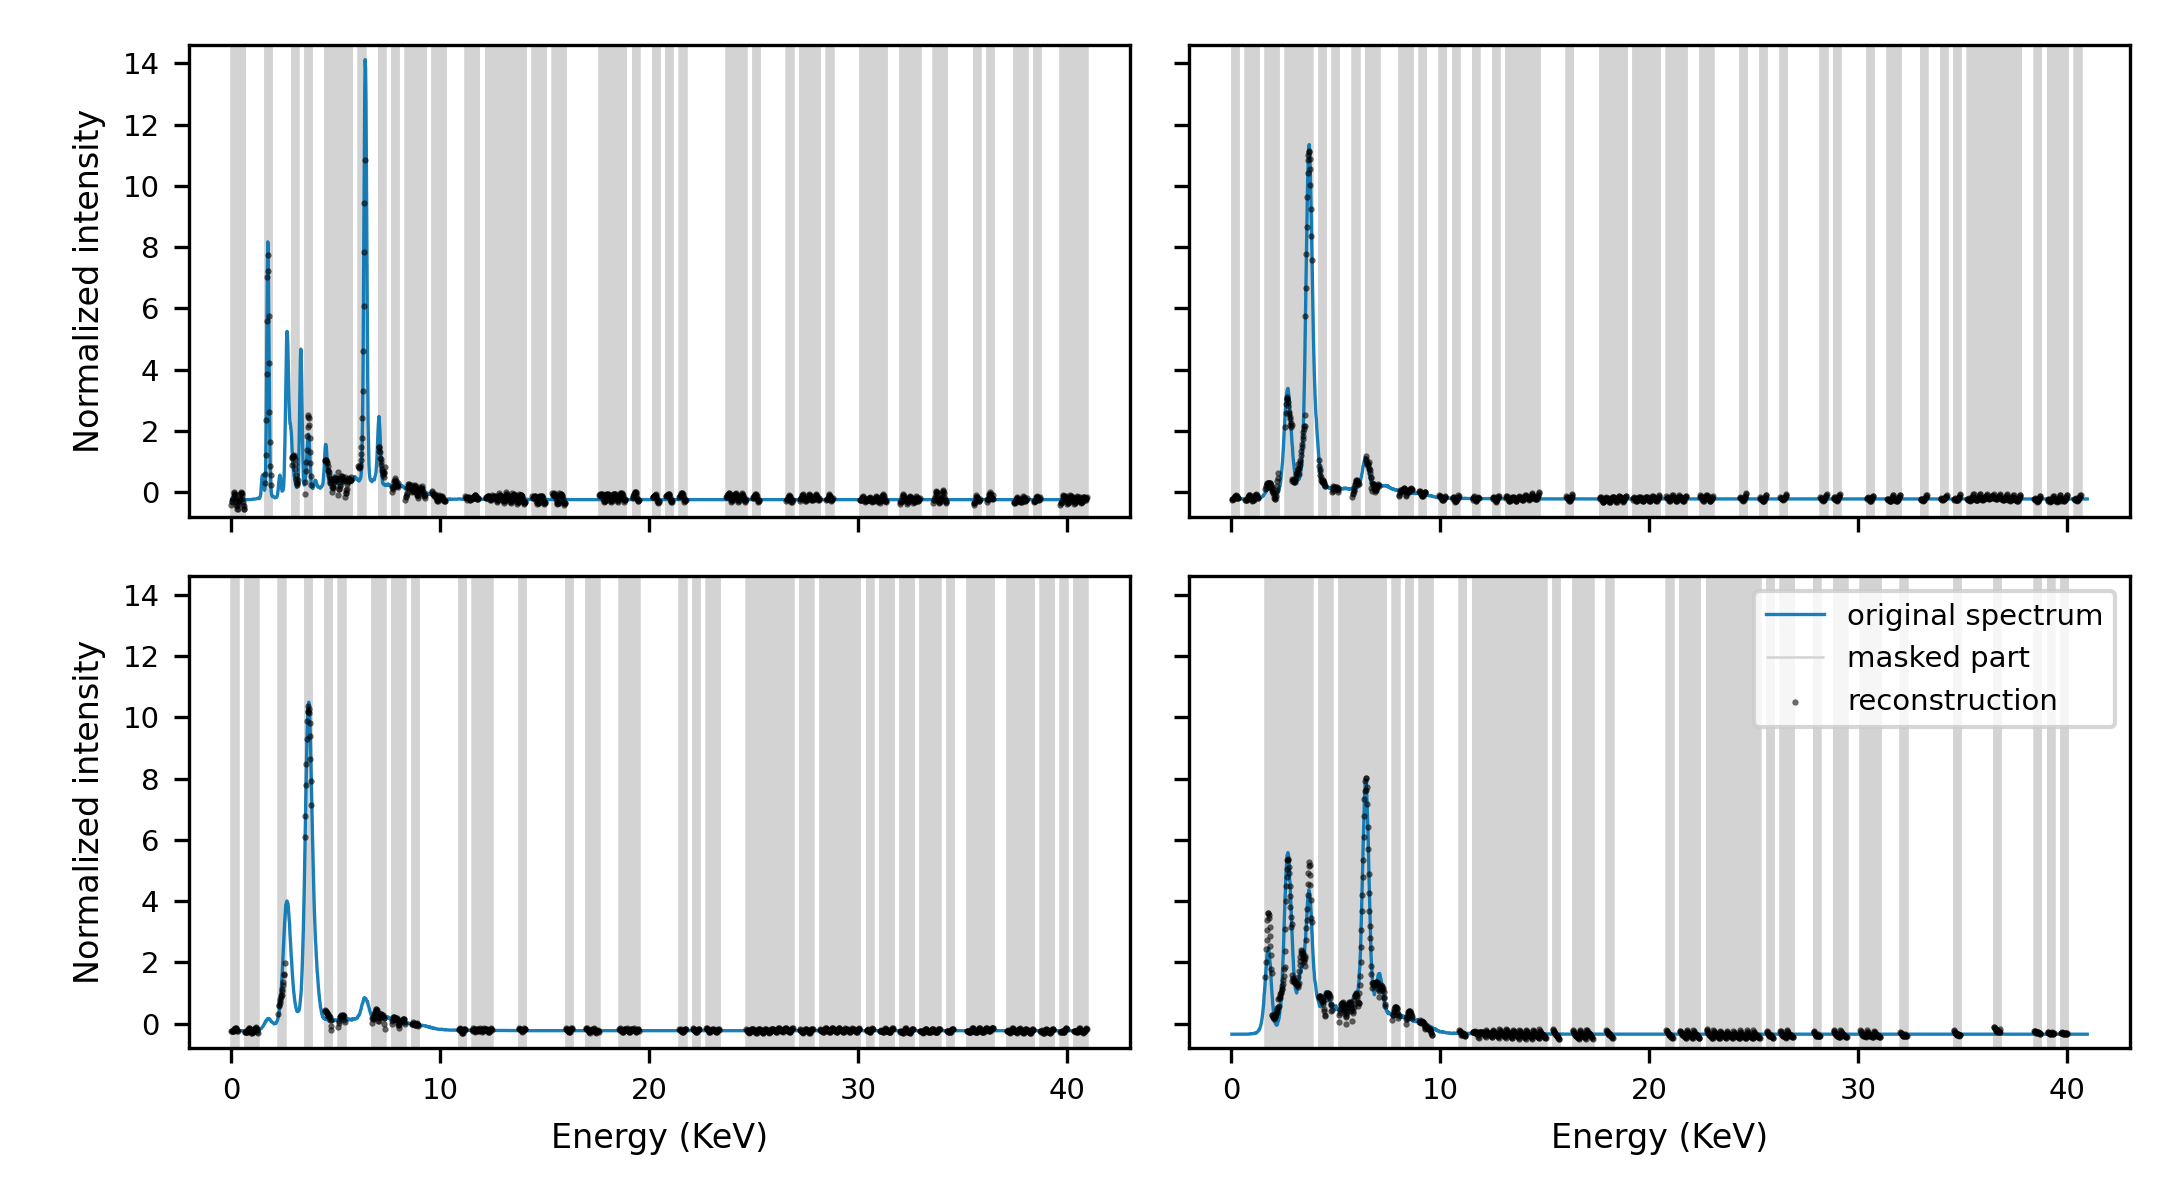
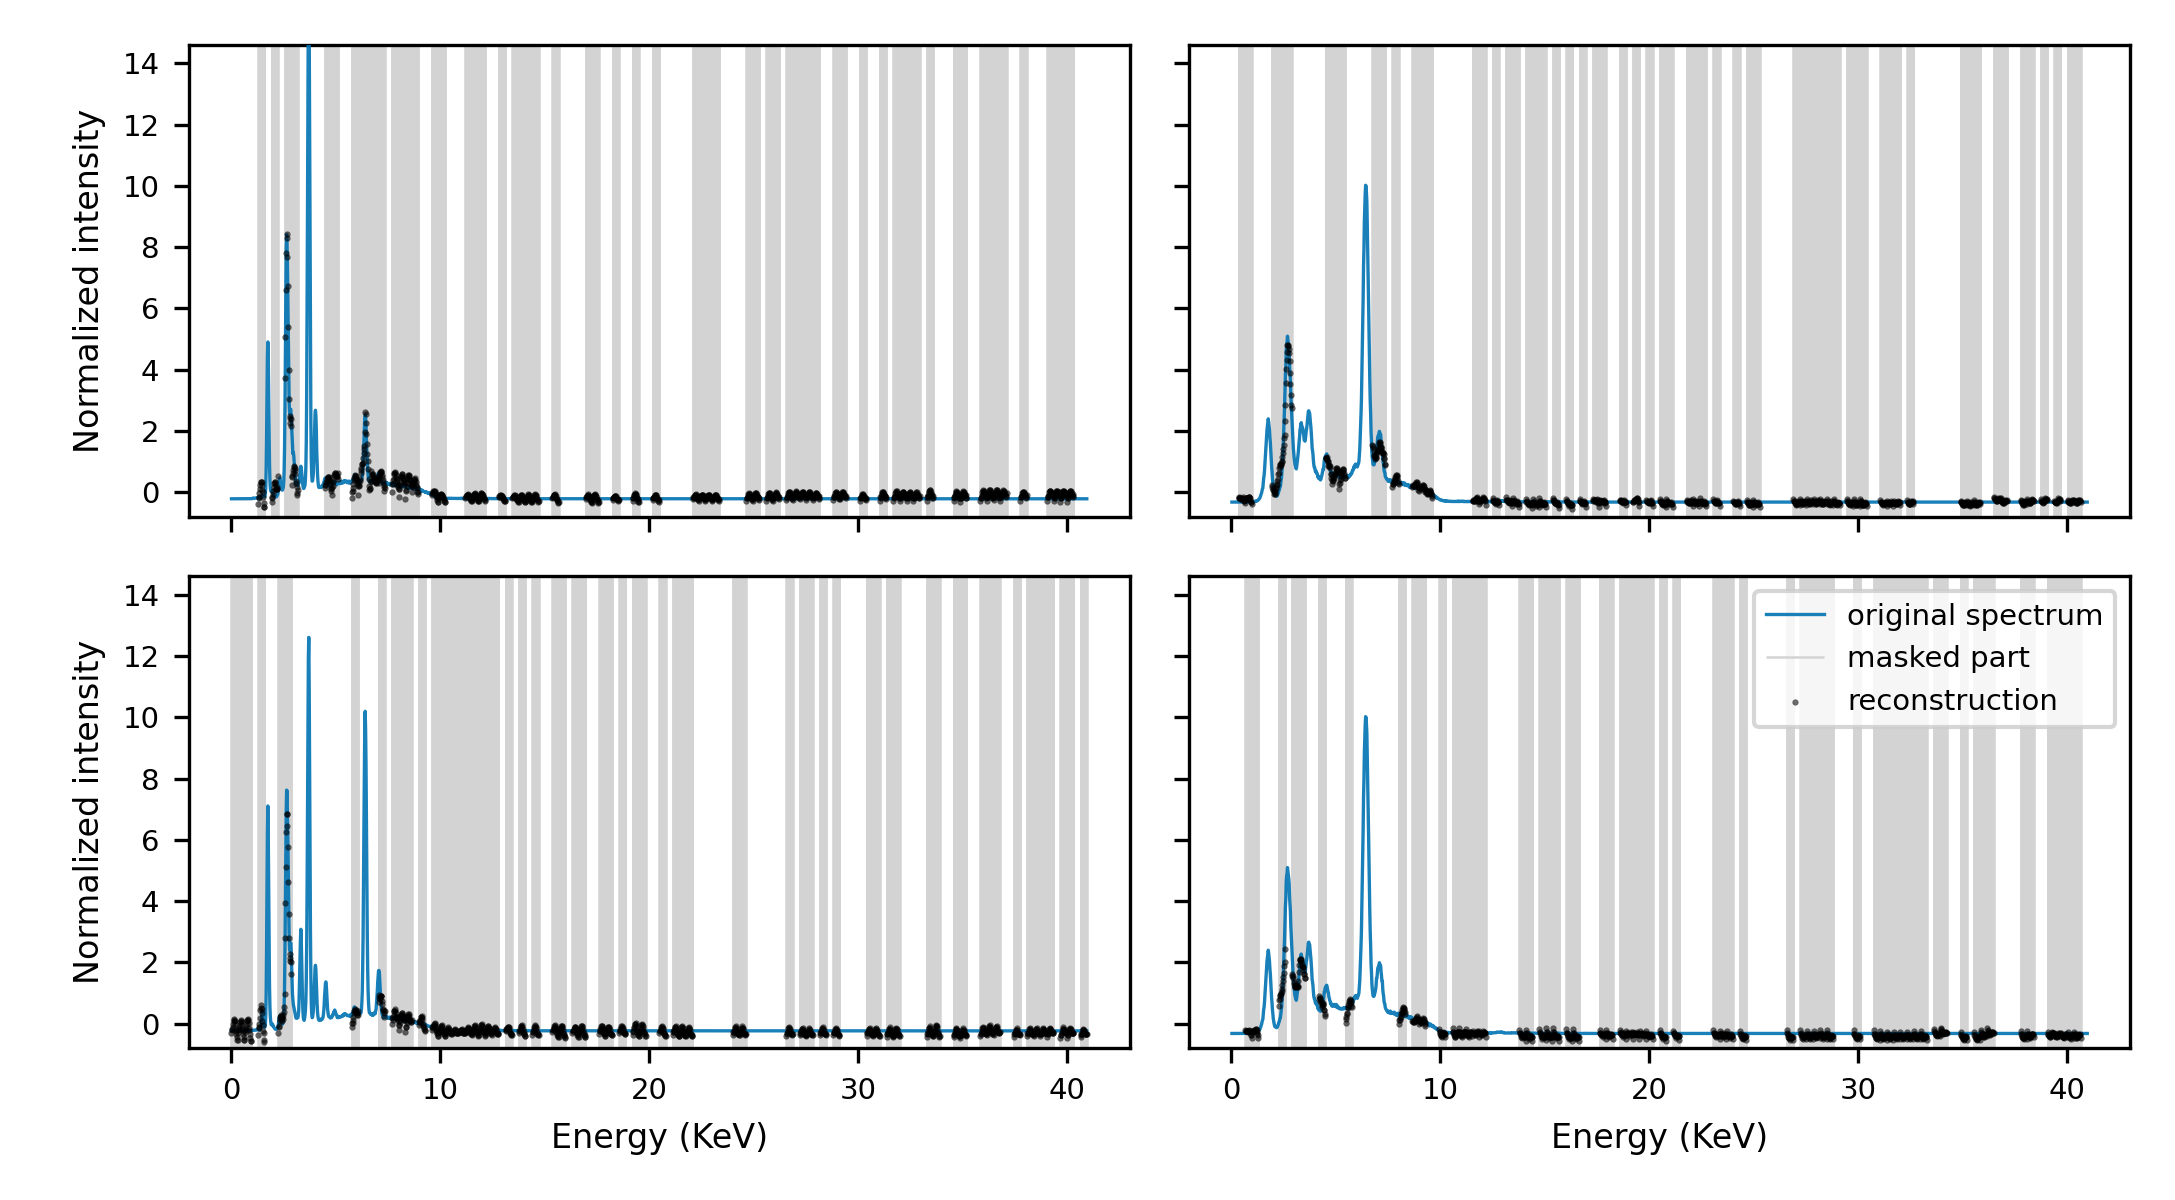
Make sure the val data is used

diff --git a/visualize.py b/visualize.py
@@ -158,13 +158,11 @@ def check_transform():
     transform = transforms.InstanceNorm()
 
     # load dataset
-    dataset = datasets.PretrainDataset(
-        annotations_file="data/pretrain/train/info.csv",
+    data_val = datasets.PretrainDataset(
+        annotations_file="data/pretrain/train/val.csv",
         input_dir="data/pretrain/train",
         transform=transform
     )
-
-    _, data_val = dataloader.split(dataset)
 
     # load model
     model = mae_vit.mae_vit_base_patch16(mask_ratio=mask_ratio).to("cuda")
